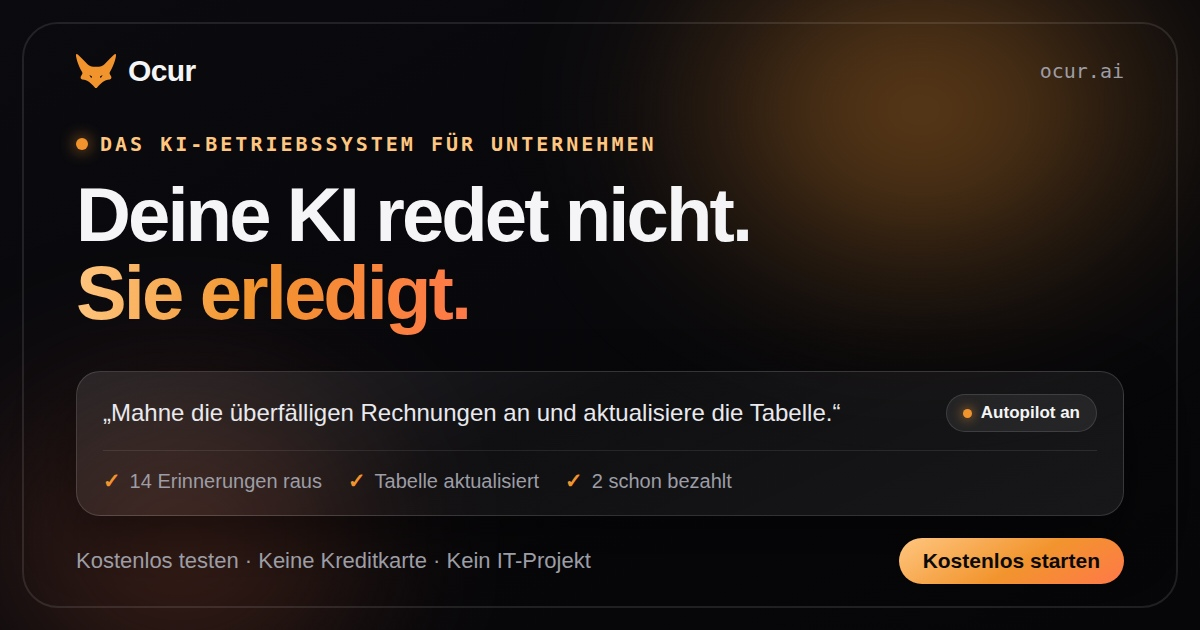
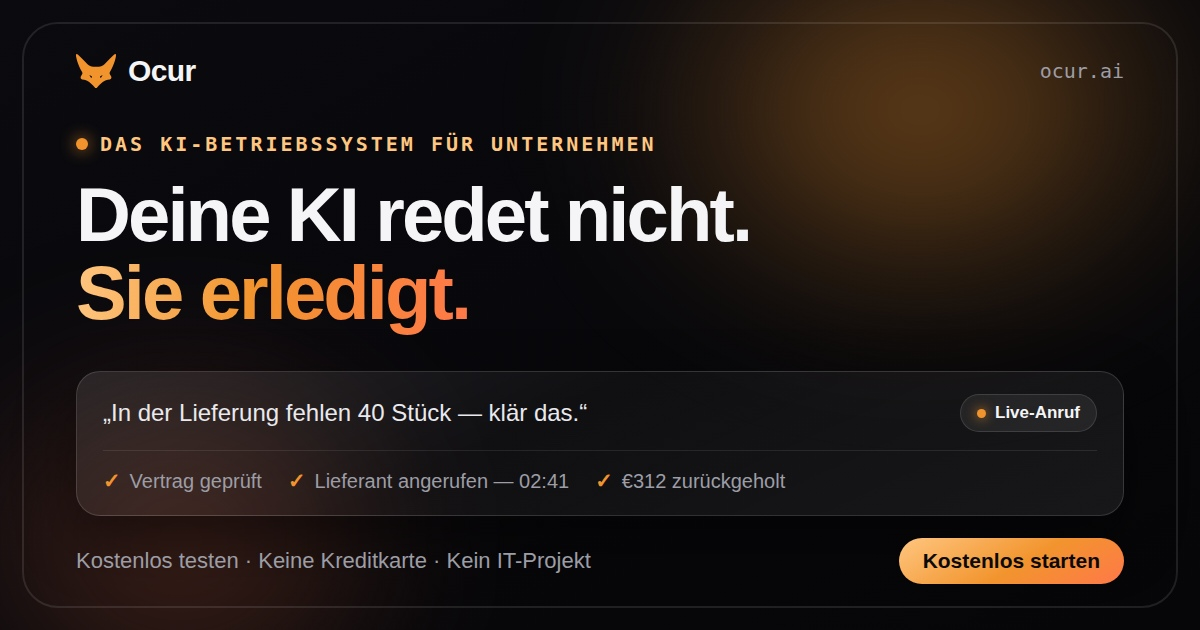
Name Ocur instead of "it", fix mid-word breaks in the typed ask, new OG cards
- Copy pass EN + DE: lead with the name where the copy said "it"/"es" —
  "Talk to Ocur" / "Sprich mit Ocur", "Ocur builds your database",
  "Ocur negotiates", "yes, Ocur is really on the phone", and the bento
  tile bodies now open with Ocur as the subject. Pronouns stay only for
  immediate follow-ups so nothing reads robotic.
- The typed ask could break mid-word ("ou|t"): SplitText type:'chars'
  wraps every char in its own inline-block span, destroying word
  boundaries. Split 'words,chars' instead — chars animate, words wrap.
- OG share cards retell the supplier call: "Friday's delivery came in 40
  units short — sort it out." · Live call · contract checked, supplier
  called 02:41, €312 recovered (EN + DE, regenerated via gen:og, 128/132
  KB). ?v= bumped to 2 on og:image/twitter:image and the DE prerender;
  alt texts updated to describe the new art.

Claude-Session: https://claude.ai/code/session_013YuJicqmfQbGatzuxzjuae

Changed region(s): [[0.0925, 0.6333, 0.7092, 0.6937], [0.0925, 0.754, 0.6783, 0.7841], [0.7708, 0.6333, 0.8942, 0.6635]]

diff --git a/index.html b/index.html
@@ -24,13 +24,13 @@
       property="og:description"
       content="The AI operating system for companies: Ocur answers your email and phone, does the work inside the tools you already run on, and keeps your promises, money and pipeline on live ledgers. You set the limits. Pilot it free."
     />
-    <meta property="og:image" content="https://ocur.ai/og.jpg?v=1" />
+    <meta property="og:image" content="https://ocur.ai/og.jpg?v=2" />
     <meta property="og:image:type" content="image/jpeg" />
     <meta property="og:image:width" content="1200" />
     <meta property="og:image:height" content="630" />
     <meta
       property="og:image:alt"
-      content="Ocur — “What if your company ran itself?” An Ocur window on autopilot: chase the overdue invoices and update the sheet, 14 reminders sent, sheet updated, 2 already paid."
+      content="Ocur — “What if your company ran itself?” An Ocur window on a live call: Friday's delivery came in 40 units short, sort it out — contract checked, supplier called, €312 recovered."
     />
     <meta name="twitter:card" content="summary_large_image" />
     <meta name="twitter:site" content="@ocur_ai" />
@@ -40,10 +40,10 @@
       name="twitter:description"
       content="Ocur answers your email and phone, does the work inside your tools, and keeps your promises, money and pipeline on live ledgers. On demand, or on full autopilot. Pilot it free."
     />
-    <meta name="twitter:image" content="https://ocur.ai/og.jpg?v=1" />
+    <meta name="twitter:image" content="https://ocur.ai/og.jpg?v=2" />
     <meta
       name="twitter:image:alt"
-      content="Ocur — “What if your company ran itself?” An Ocur window on autopilot: chase the overdue invoices and update the sheet, 14 reminders sent, sheet updated, 2 already paid."
+      content="Ocur — “What if your company ran itself?” An Ocur window on a live call: Friday's delivery came in 40 units short, sort it out — contract checked, supplier called, €312 recovered."
     />
     <link rel="canonical" href="https://ocur.ai/" />
     <link rel="alternate" hreflang="en" href="https://ocur.ai/" />
@@ -230,7 +230,7 @@
                   <span class="g-act-txt">“We'll credit the 4% and redeliver Thursday morning.”</span>
                   <span class="g-act-ok">02:41</span>
                 </div>
-                <div class="g-stamp">Ocur · 09:47 · yes, it's really on the phone</div>
+                <div class="g-stamp">Ocur · 09:47 · yes, Ocur is really on the phone</div>
               </div>
               <!-- scene 3: the deal, waiting for you -->
               <div class="g-scene g-s3">
@@ -259,8 +259,8 @@
 
           <div class="g-caps">
             <p class="g-cap g-cap-1">Say it once, in plain language. No prompts to engineer.</p>
-            <p class="g-cap g-cap-2">It checks the facts first — then it picks up the phone.</p>
-            <p class="g-cap g-cap-3">It negotiates. The final call stays yours.</p>
+            <p class="g-cap g-cap-2">Ocur checks the facts first — then picks up the phone.</p>
+            <p class="g-cap g-cap-3">Ocur negotiates. The final call stays yours.</p>
             <p class="g-cap g-cap-4">Money back, date fixed, every word on the record.</p>
           </div>
         </div>
@@ -299,7 +299,7 @@
             </article>
             <article class="g-os-card lg glare">
               <p class="g-os-tag">Your database</p>
-              <h3>It builds your database</h3>
+              <h3>Ocur builds your database</h3>
               <p>Candidates, orders, patients — whatever your business runs on, Ocur designs the tables, evolves them as you change, and works inside them. You may not need the next SaaS.</p>
             </article>
             <article class="g-os-card lg glare">
@@ -325,21 +325,21 @@
             <article class="g-tile g-tile-auto lg glare">
               <svg class="g-ekg" viewBox="0 0 220 40" aria-hidden="true"><polyline points="0,20 60,20 74,6 88,34 102,20 220,20" fill="none" stroke="#f2942e" stroke-width="2" stroke-linejoin="round" /></svg>
               <h3>Autopilot, with a heartbeat</h3>
-              <p>A heartbeat wakes Ocur through the day. It checks what needs doing, does it, and writes every step down. You wake up to a report, not a backlog.</p>
+              <p>A heartbeat wakes Ocur through the day. Ocur checks what needs doing, does it, writes every step down — you wake up to a report, not a backlog.</p>
               <div class="g-times"><span>06:00 inbox</span><span>06:15 invoices</span><span>07:12 builds a tool</span><span>08:00 digest</span></div>
             </article>
             <article class="g-tile g-tile-mail lg glare">
               <h3>Answers your email itself</h3>
-              <p>Give Ocur its own inbox. It knows every sender's whole history, replies in your voice — or drafts and waits for your OK.</p>
+              <p>Ocur gets its own inbox, knows every sender's whole history, and replies in your voice — or drafts and waits for your OK.</p>
             </article>
             <article class="g-tile g-tile-voice lg glare">
               <div class="g-eq" aria-hidden="true"><i></i><i></i><i></i><i></i><i></i></div>
-              <h3>Talk to it</h3>
-              <p>Out loud, like a colleague — a real conversation, not dictation. Interrupt it mid-sentence; it keeps up.</p>
+              <h3>Talk to Ocur</h3>
+              <p>Out loud, like a colleague — a real conversation, not dictation. Interrupt Ocur mid-sentence; it keeps up.</p>
             </article>
             <article class="g-tile g-tile-phone lg glare">
               <h3>Answers the phone</h3>
-              <p>Ocur gets its own number. It takes the calls you'd rather not, says only what you allow — and hands you the transcript.</p>
+              <p>Ocur gets its own number, takes the calls you'd rather not, says only what you allow — and hands you the transcript.</p>
             </article>
             <article class="g-tile g-tile-work lg glare">
               <h3>Ten jobs at once</h3>
@@ -351,11 +351,11 @@
             </article>
             <article class="g-tile g-tile-mem lg glare">
               <h3>Company memory</h3>
-              <p>“What did we agree in March?” — asked once, answered forever. Feed it your documents; it never asks twice.</p>
+              <p>“What did we agree in March?” — asked once, answered forever. Give Ocur your documents; nothing gets asked twice.</p>
             </article>
             <article class="g-tile g-tile-comp lg glare">
               <h3>Drives your computer</h3>
-              <p>Opens apps, clicks, types, reads the screen — with your say-so.</p>
+              <p>Ocur opens apps, clicks, types, reads the screen — with your say-so.</p>
             </article>
             <article class="g-tile g-tile-ctrl lg glare">
               <h3>Built for control</h3>
@@ -437,11 +437,11 @@
             </details>
             <details class="lg" name="g-faq">
               <summary>How is this different from a chat assistant?</summary>
-              <p>A chat assistant gives you an answer — the work is still yours. Ocur finishes the job where it lives: it holds its own inbox and phone line, runs on a heartbeat while you're away, keeps your promises, money, pipeline and stock on live ledgers, and puts the result in your tools — not your clipboard.</p>
+              <p>A chat assistant gives you an answer — the work is still yours. Ocur finishes the job where it lives: with its own inbox and phone line, a heartbeat that keeps running while you're away, and live ledgers for your promises, money, pipeline and stock. The result lands in your tools — not your clipboard.</p>
             </details>
             <details class="lg" name="g-faq">
               <summary>Do I need to install anything?</summary>
-              <p>No — Ocur runs in your browser, and you can message it from WhatsApp, Telegram, Slack or Discord too. Want it to work on your own computer as well? A small companion app connects your machine in about a minute.</p>
+              <p>No — Ocur runs in your browser, and you can message Ocur from WhatsApp, Telegram, Slack or Discord too. Want it working on your own computer as well? A small companion app connects your machine in about a minute.</p>
             </details>
             <details class="lg" name="g-faq">
               <summary>Will it do things without asking?</summary>

diff --git a/src/strings.de.js b/src/strings.de.js
@@ -15,7 +15,7 @@ export const DESC_DE =
 export const TWITTER_DESC_DE =
   'Ocur beantwortet E-Mails und Anrufe, erledigt die Arbeit direkt in deinen Tools und führt Versprechen, Geld und Pipeline als lebende Register. Jetzt kostenlos testen.';
 export const OG_ALT_DE =
-  'Ocur — „Deine KI redet nicht. Sie erledigt.“ Ein Ocur-Fenster auf Autopilot: überfällige Rechnungen anmahnen und die Tabelle aktualisieren — 14 Erinnerungen raus, Tabelle aktualisiert, 2 schon bezahlt.';
+  'Ocur — „Deine KI redet nicht. Sie erledigt.“ Ein Ocur-Fenster im Live-Anruf: In der Lieferung fehlen 40 Stück, klär das — Vertrag geprüft, Lieferant angerufen, €312 zurückgeholt.';
 
 // selector → replacement innerHTML. A string applies to every match; an
 // array applies element-by-element in DOM order.
@@ -68,7 +68,7 @@ export const DE = [
     '.g-stamp',
     [
       'Du · 09:41',
-      'Ocur · 09:47 · ja, es telefoniert wirklich',
+      'Ocur · 09:47 · ja, Ocur telefoniert wirklich',
       'Nichts Wichtiges ohne deine Freigabe',
       'Ocur · 10:02 · das ganze Gespräch im Protokoll',
     ],
@@ -90,8 +90,8 @@ export const DE = [
     '.g-cap',
     [
       'Einmal sagen — in ganz normaler Sprache. Kein Prompt-Engineering.',
-      'Erst prüft es die Fakten — dann greift es zum Hörer.',
-      'Es verhandelt. Die letzte Entscheidung bleibt deine.',
+      'Erst die Fakten — dann greift Ocur zum Hörer.',
+      'Ocur verhandelt. Die letzte Entscheidung bleibt deine.',
       'Geld zurück, Termin fix, jedes Wort im Protokoll.',
     ],
   ],
@@ -110,7 +110,7 @@ export const DE = [
       'Zahlen mit Substanz',
       'Ein CRM, das sich selbst pflegt',
       'Nie wieder leere Regale verkaufen',
-      'Es baut deine Datenbank',
+      'Ocur baut deine Datenbank',
       'Die ganze Firma auf einen Blick',
     ],
   ],
@@ -137,7 +137,7 @@ export const DE = [
     [
       'Autopilot rund um die Uhr',
       'Beantwortet E-Mails selbst',
-      'Reden statt tippen',
+      'Sprich mit Ocur',
       'Geht ans Telefon',
       'Zehn Jobs auf einmal',
       'Einmal zeigen genügt',
@@ -152,13 +152,13 @@ export const DE = [
     '.g-tile p',
     [
       'Ocur wacht über den Tag immer wieder von selbst auf, prüft, was ansteht, erledigt es und protokolliert jeden Schritt. Du wachst auf — und findest einen Bericht, keinen Rückstand.',
-      'Gib Ocur ein eigenes Postfach. Es kennt zu jedem Absender die ganze Vorgeschichte und antwortet in deinem Ton — oder legt dir Entwürfe zur Freigabe vor.',
-      'Per Sprache, wie mit einem Kollegen — ein echtes Gespräch, kein Diktat. Unterbrich es mitten im Satz; es kommt mit.',
+      'Ocur bekommt ein eigenes Postfach, kennt zu jedem Absender die ganze Vorgeschichte und antwortet in deinem Ton — oder legt dir Entwürfe zur Freigabe vor.',
+      'Wie mit einem Kollegen — ein echtes Gespräch, kein Diktat. Unterbrich Ocur mitten im Satz; es kommt mit.',
       'Ocur bekommt eine eigene Nummer, nimmt die Anrufe an, auf die du keine Lust hast, sagt nur, was du erlaubst — und legt dir das Protokoll hin.',
       'Übergib den ganzen Rückstand in einer Nachricht. Parallele Worker arbeiten nebeneinander und melden sich, sobald ein Job fertig ist.',
       'Nimm die Routineaufgabe als Bildschirmvideo auf und erklär dabei, was du tust. Ocur macht daraus eine Fähigkeit, die es für immer wiederholt — genau auf deine Art.',
-      '„Was haben wir im März vereinbart?“ — einmal gefragt, für immer beantwortet. Gib ihm eure Dokumente; es fragt nie zweimal.',
-      'Öffnet Apps, klickt, tippt, liest den Bildschirm — mit deinem Okay.',
+      '„Was haben wir im März vereinbart?“ — einmal gefragt, für immer beantwortet. Gib Ocur eure Dokumente; nichts wird zweimal gefragt.',
+      'Ocur öffnet Apps, klickt, tippt, liest den Bildschirm — mit deinem Okay.',
       'Du legst fest, was allein laufen darf. Der Rest wartet auf Freigabe — jede Aktion protokolliert.',
       'Fehlt ein Tracker, ein Portal, ein Rechner? Ocur schreibt die App selbst, hält sie neben dem Chat am Laufen — und teilt sie mit dem Team.',
       'Echte Arbeit — von Anfang bis Ende. Ein Ocur, an das die ganze Firma delegiert.',
@@ -225,7 +225,7 @@ export const DE = [
     [
       'Ja, wirklich. Der Free-Plan ist das volle Betriebssystem mit monatlichem Arbeitsvolumen — genug, um Ocur an echten Aufgaben zu testen. Keine Kreditkarte, keine Frist. Überzeugt es, ist das Upgrade einen Klick entfernt.',
       'Ein Chat-Assistent gibt dir eine Antwort — die Arbeit bleibt trotzdem bei dir. Ocur macht den Job fertig, dort, wo er hingehört: mit eigenem Postfach und eigener Telefonnummer, auf Autopilot auch wenn du weg bist, mit lebenden Registern für Versprechen, Geld, Pipeline und Lager. Das Ergebnis landet in deinen Tools — nicht in deiner Zwischenablage.',
-      'Nein. Ocur läuft im Browser — und du erreichst es genauso aus WhatsApp, Telegram, Slack oder Discord. Soll es auch auf deinem Rechner arbeiten? Eine kleine Begleit-App verbindet ihn in unter einer Minute.',
+      'Nein. Ocur läuft im Browser — und du erreichst Ocur genauso aus WhatsApp, Telegram, Slack oder Discord. Soll es auch auf deinem Rechner arbeiten? Eine kleine Begleit-App verbindet ihn in unter einer Minute.',
       'Nur, wo du es erlaubst. Standardmäßig wartet alles Wichtige auf deine Freigabe. Erst auf Autopilot erledigt Ocur ganze Abläufe von selbst — jeder Schritt protokolliert. Was allein laufen darf, bestimmst du jederzeit, Ruhezeiten inklusive.',
       'Dann siehst du ihn — jede Aktion steht im Protokoll, mit dem Was und dem Warum. Alles Wichtige hat ohnehin auf deine Freigabe gewartet. Korrigier es in ganz normaler Sprache — Ocur merkt sich die Korrektur, und derselbe Fehler passiert kein zweites Mal.',
       'Gmail, Google Kalender &amp; Drive, Notion, GitHub, WhatsApp, Telegram, Slack und Discord — dazu das Web und auf Wunsch deinen eigenen Rechner. Konten verbindest du einzeln und trennst sie jederzeit wieder.',

diff --git a/src/main.js b/src/main.js
@@ -123,8 +123,9 @@ if (motion) {
     scrollTrigger: { trigger: '.g-demo', start: 'top 70%' },
   });
 
-  // the ask types itself out as the window arrives
-  const typeChars = new SplitText('.g-type', { type: 'chars' }).chars;
+  // the ask types itself out as the window arrives. Split words AND chars:
+  // char-only spans destroy word boundaries and let "out" break as "ou|t".
+  const typeChars = new SplitText('.g-type', { type: 'words,chars' }).chars;
   gsap.from(typeChars, {
     autoAlpha: 0,
     duration: 0.01,
